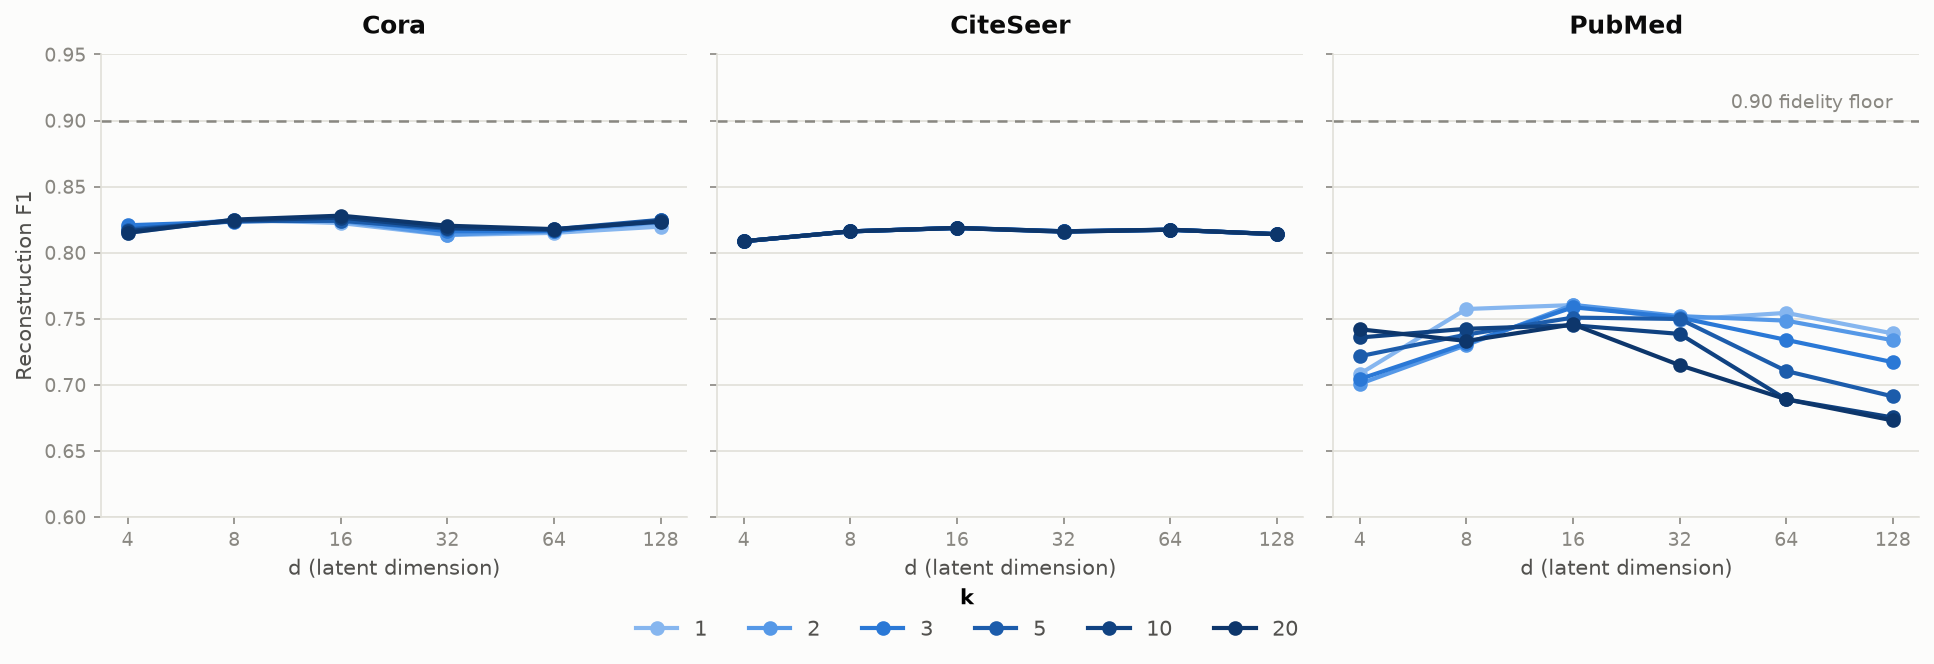
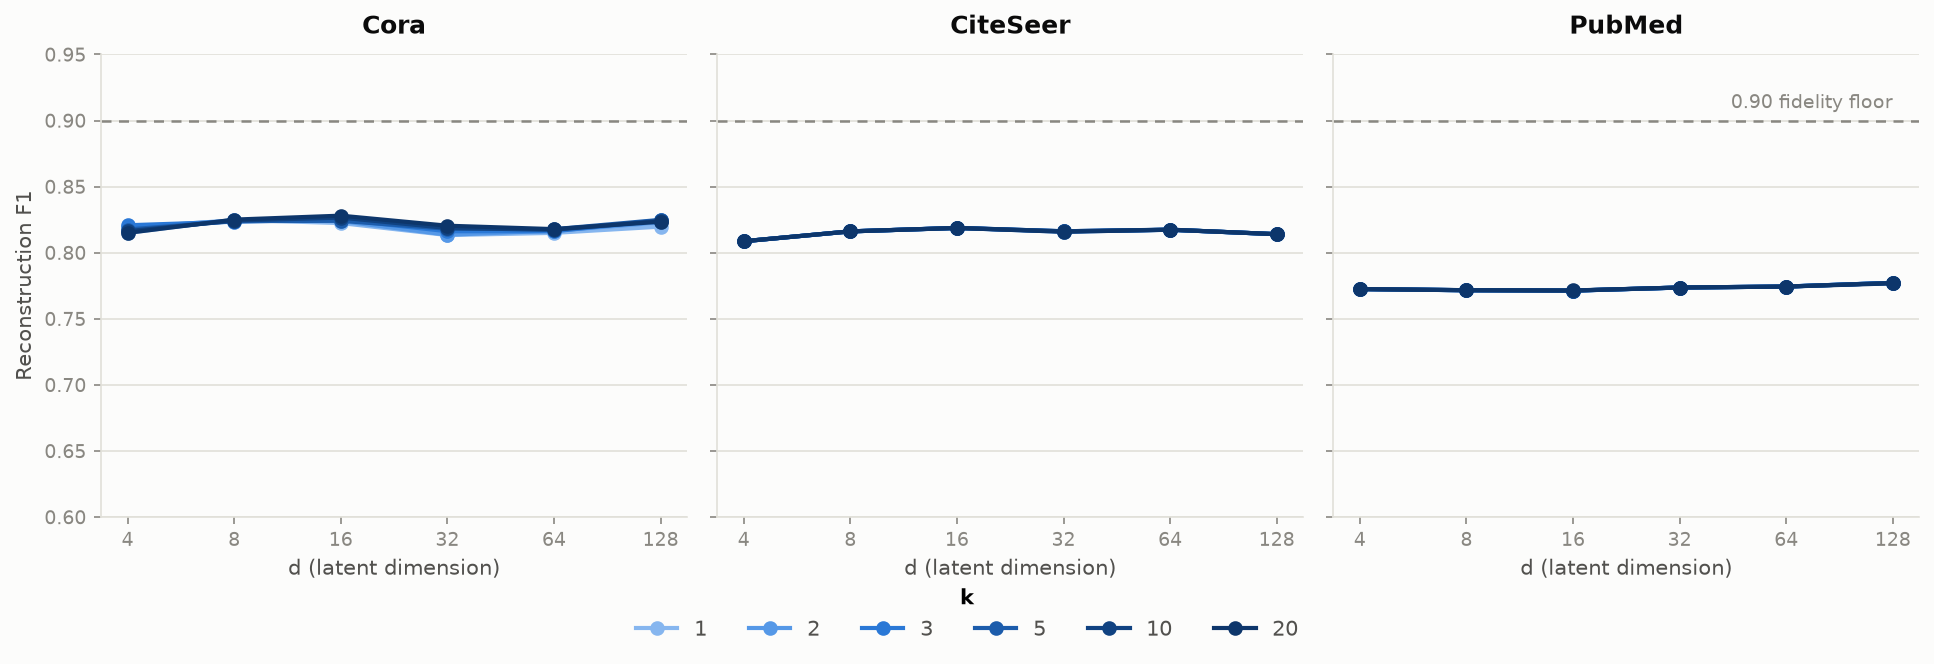
Update specs and README with confirmed PubMed (d,k) rerun results
Pulled results/compression/pubmed.csv and configs/compression/pubmed.yaml
regenerated after the ELBO KL-normalization fix (commit eec133b). This
directly confirms the V-8 retrospective hypothesis: the "capacity hurts"
pattern and the near-exactly-1.0 bits_per_edge were both symptoms of the
bug, not real effects.

- Mean F1 by d now rises 0.7725->0.7771 instead of falling 0.742->0.673.
- Mean F1 by k is now flat at 0.7734 for every k, matching CiteSeer's
  "A_z too weak to matter" pattern (PubMed's mp_rounds=0 means A_z's
  only path into training was always the KL term, now correctly weak).
- select_compression_optimal now picks d=128,k=1 (F1=0.7772) instead of
  d=16,k=2 (F1=0.761).
- bits_per_edge is a real ~1.13-1.14 instead of a suspicious ~1.0 everywhere.

Updates README's PubMed section (old numbers kept in a <details> block
as historical record), validation.md V-3/V-4/V-8, plan.md's T3.3/T3.4
notes, and roadmap.md's NAS-rerun open question with this new evidence.
Regenerates the three rate-distortion plots from the new CSV.

Flags a new follow-up: T3.6's PubMed pooling sweep was confirmed against
the *old* d=16,k=2 config and should be rerun once more against the new
d=128,k=1 compression-optimal point for full consistency.

Changed region(s): [[0.6825, 0.4217, 0.9928, 0.6325]]

diff --git a/README.md b/README.md
@@ -75,6 +75,29 @@ Full results: [`results/compression/cora.csv`](results/compression/cora.csv) (36
 
 Full results: [`results/compression/pubmed.csv`](results/compression/pubmed.csv) (36 points, run on a remote A100 given PubMed's NAS-best `prior=graph_mrf` O(N³) KL term). Input graph: N=19717 nodes, F=500 features, |E|=44324 edges.
 
+**Rerun 2026-07-13 after an ELBO bug fix — numbers below supersede the original run.** The first version of this grid (run 2026-07-08) showed F1 *declining* monotonically with capacity, with PubMed's own Phase 2 NAS-best architecture landing on the worst point in the grid. That turned out to be an artifact of a KL-normalization bug (`kl_isotropic`/`kl_graph_mrf` in `src/gvls/losses/elbo.py` returned an un-normalized sum over node count, so `β·KL`'s magnitude scaled with `N` while the mean-reduced reconstruction loss didn't — see `specs/phase3/validation.md` V-8 for the full diagnosis). The original numbers and findings are kept below the table as a historical record since the bug's symptom is itself an instructive result; the table and bullets reflect the corrected rerun.
+
+| d | k | d/F | \|A_z\|/\|E\| | F1 | bits/edge |
+|---|---|-----|------------|-----|-----------|
+| 4 | 1 | 0.0080 | 0.445 | 0.772 | 1.125 |
+| 8 | 1 | 0.0160 | 0.445 | 0.772 | 1.129 |
+| 16 | 1 | 0.0320 | 0.445 | 0.771 | 1.129 |
+| 16 | 2 | 0.0320 | 0.890 | 0.771 | 1.129 |
+| 32 | 1 | 0.0640 | 0.445 | 0.774 | 1.137 |
+| **128** | **1** | **0.2560** | **0.445** | **0.777** | **1.128** |
+| 128 | 20 | 0.2560 | 8.886 | 0.777 | 1.129 |
+
+**Findings — now much closer to Cora and CiteSeer's flat pattern than the original run suggested:**
+- **Capacity no longer hurts.** F1 by `d`, averaged over `k`: 0.7725 (`d=4`) → 0.7716 → 0.7713 → 0.7736 → 0.7744 → **0.7771** (`d=128`) — a shallow dip then a rise, the opposite of the original run's clean monotonic decline. `d=128, k=20` (PubMed's Phase 2 NAS-best architecture) is now F1=0.7768, essentially tied for the *best* point in the grid instead of the worst.
+- **`k` has (almost) zero effect on F1, for the same mechanistic reason as CiteSeer.** Mean F1 by `k` is now 0.7734 at every single value of `k` (1 through 20), to 4 decimal places. PubMed's compression-optimal config uses `mp_rounds=0`, so `A_z` never reaches the reconstruction logits directly — its only path into training is through the `graph_mrf` KL term. Before the fix, that KL term was artificially amplified (unnormalized sum over `N=19717`), so even A_z's indirect, KL-only influence produced large, real differences in F1 as `k` changed. With the KL correctly scaled, that indirect influence shrinks to negligible — matching CiteSeer's "`k` is decorative" finding, just via a different mechanistic route (CiteSeer's `A_z` has *no* path into the loss at all; PubMed's has a path, but it's now too weak to matter).
+- **`bits_per_edge` is no longer suspiciously exact.** The original run showed `bits_per_edge` within 1.6e-3 of exactly 1.0 at every grid point — flagged at the time as "worth investigating, not yet root-caused." That near-perfect uniformity is best explained by the same bug: the dominant KL term was forcing `μ` into a very similar near-zero configuration regardless of `(d,k)`, so the reconstruction logits (and thus `bits_per_edge`) barely varied either. Post-fix, `bits_per_edge` is a real, still-imperfect ~1.13–1.14 across the grid (versus the 1.0 "random predictor" reference) — calibration remains a separate, unresolved issue (see the T3.6 pooling-sweep analysis for the same pattern), but it's no longer a suspicious artifact.
+- **`k` still controls edge compression the same way as Cora**: `k=1` gives `|A_z|` at ~44–45% of the input's edge count (genuine compression) across all `d`; `k≥2` again makes A_z denser than the input, up to 8.9× at `k=20`.
+- **The best trade-off point is arguably `d=4, k=1`**: F1=0.7725 — only 0.005 below the grid's best (`d=128,k=1`, F1=0.7772) — at `d/F=0.008`, 32× smaller than the new best point's dimensionality ratio, and the same edge ratio (0.445, since edge ratio only depends on `k`).
+- **No grid point met the 0.90 fidelity floor** (max F1 = 0.777 at `d=128, k=1`) — same conclusion as before, T3.4's decoder-fallback trigger still fires, but the *reasoning* has changed: this is now a flat plateau well short of 0.90 (like Cora and CiteSeer), not a declining curve where more capacity actively makes things worse.
+
+<details>
+<summary>Original run (2026-07-08, predates the ELBO fix) — kept as a historical record</summary>
+
 | d | k | d/F | \|A_z\|/\|E\| | F1 | bits/edge |
 |---|---|-----|------------|-----|-----------|
 | 4 | 1 | 0.0080 | 0.445 | 0.708 | 1.0000017 |
@@ -85,11 +108,9 @@ Full results: [`results/compression/pubmed.csv`](results/compression/pubmed.csv)
 | 128 | 1 | 0.2560 | 0.422 | 0.739 | 1.0000701 |
 | 128 | 20 | 0.2560 | 8.725 | 0.673 | 1.0015761 |
 
-**Findings — a different, more concerning picture than Cora:**
-- **More capacity makes reconstruction *worse*, not better.** Mean F1 falls monotonically as `k` grows (0.745 at `k=1` → 0.716 at `k=20`), and at fixed `k=20`, F1 falls monotonically as `d` grows too (0.742 at `d=4` → 0.673 at `d=128`). Averaged over `k`, F1 peaks at a modest `d=16` (0.754) and *declines* toward `d=128` (0.705) — the opposite of what you'd want from a capacity/rate-distortion curve. `d=128, k=20` happens to be exactly PubMed's Phase 2 NAS-best architecture, so the config tuned for link-prediction AUC is the **worst** point in this grid for compression fidelity.
-- **`bits_per_edge` is degenerate — essentially exactly 1.0 bit at every single grid point** (1.0000017 to 1.0015761). Per Phase 0's convention, a logit of exactly 0 (maximum uncertainty) gives precisely 1.0 bit. PubMed's pair space is huge (~194M possible pairs vs. 44,324 real edges, a 0.023% positive rate), so `bits_per_edge` is estimated from a large uniform sample dominated by random, mostly-unrelated node pairs (see `dense_pair_limit`/`sample_node_pairs` in `specs/phase3/plan.md`). The near-exact 1.0 suggests the model is essentially uncertain (logit ≈ 0) about the *bulk* of random pairs — it can apparently still separate real edges from negatives well enough for F1 ≈ 0.7–0.76 on the balanced eval set, but isn't confidently negative almost anywhere else. A plausible driver: the extreme `pos_weight` this dataset's scale requires (~4384×, from `(N²−E)/E`) makes the training loss overwhelmingly dominated by getting rare positive edges right, leaving little pressure to push far-apart negative pairs to confidently negative logits. Worth investigating further, not yet root-caused.
-- **`k` still controls edge compression the same way as Cora**: `k=1` gives `|A_z|` at ~42–45% of the input's edge count (genuine compression) across all `d`; `k≥2` again makes A_z denser than the input, up to 8.7× at `k=20`.
-- **No grid point met the 0.90 fidelity floor** (max F1 = 0.761 at `d=16, k=2`) — same conclusion as Cora, fires the T3.4 decoder-fallback trigger, and here the case is stronger: F1 at the largest tested capacity (`d=128, k=20`) is 0.673, the *worst* point in the entire grid, not just a plateau.
+More capacity made reconstruction *worse*: mean F1 fell monotonically as `k` grew (0.745 at `k=1` → 0.716 at `k=20`), and at fixed `k=20`, F1 fell monotonically as `d` grew too (0.742 at `d=4` → 0.673 at `d=128`). `bits_per_edge` was degenerate — essentially exactly 1.0 bit at every grid point (1.0000017–1.0015761). Both are now understood to be symptoms of the KL-normalization bug fixed in `src/gvls/losses/elbo.py` — see `specs/phase3/validation.md` V-8.
+
+</details>
 
 #### CiteSeer
 
@@ -110,21 +131,21 @@ Full results: [`results/compression/citeseer.csv`](results/compression/citeseer.
 - **F1 ceiling (0.819) and range (0.809–0.819, a 1-point spread) are close to Cora's** (0.813–0.828) — both datasets plateau well short of the 0.90 floor, unlike PubMed's actively-declining curve.
 - **No grid point met the 0.90 floor.** T3.4's trigger fires for CiteSeer too — the third dataset in a row. `configs/compression/citeseer.yaml` was written via the fallback (highest raw F1: `d=16, k=3`, F1=0.8188).
 
-**Cross-dataset pattern, now that all three are in:** none of Cora, CiteSeer, or PubMed reach the 0.90 fidelity floor anywhere in their 36-point grids. Two of three NAS-best configs (CiteSeer, PubMed) use `mp_rounds=0` — meaning GVLS's core "latent message passing" mechanism is inactive in the configurations actually used for the majority of these compression runs, and for CiteSeer specifically, the entire latent graph `A_z` is provably inert. This is a strong, convergent signal that the plain inner-product decoder (or more precisely, the disconnect between `A_z` and the decoding path for 2 of 3 datasets) is the real bottleneck — see T3.4 in `specs/phase3/plan.md`.
+**Cross-dataset pattern, now that all three are in (updated 2026-07-13 after the PubMed rerun):** none of Cora, CiteSeer, or PubMed reach the 0.90 fidelity floor anywhere in their 36-point grids, and **all three now show the same flat-vs-(d,k) pattern** — PubMed's original declining curve is gone. Two of three NAS-best configs (CiteSeer, PubMed) use `mp_rounds=0` — meaning GVLS's core "latent message passing" mechanism is inactive in the configurations actually used for the majority of these compression runs. For CiteSeer, the entire latent graph `A_z` is provably inert (no path into the loss at all). For PubMed, `A_z` has a path only through the `graph_mrf` KL term, and — now that the KL is correctly normalized (`specs/phase3/validation.md` V-8) — that path is too weak to move F1 meaningfully either. So for two of the three datasets, the flatness has a shared root cause: `A_z` barely (or doesn't at all) influence the objective these configs actually train against. This is a strong, convergent signal that the plain inner-product decoder (or more precisely, the disconnect between `A_z` and the decoding path) is the real bottleneck for reaching the 0.90 floor — see T3.4 in `specs/phase3/plan.md`.
 
 #### Rate-distortion curves
 
 The flat/declining/inert patterns described above, side by side (dashed line = the 0.90 fidelity floor; regenerate with `python experiments/plot_compression_curves.py`):
 
-**F1 vs. compression ratio** — the actual rate-distortion curve, all 36 `(d,k)` points per dataset, colored by dataset since the ratio axes are dimensionless and directly comparable across datasets. Cora and CiteSeer form tight, flat clusters regardless of compression ratio; PubMed visibly spreads and trends *downward* as `d` grows (left panel), and its clusters drift past the "same density as input" line and keep declining as `k` grows (right panel):
+**F1 vs. compression ratio** — the actual rate-distortion curve, all 36 `(d,k)` points per dataset, colored by dataset since the ratio axes are dimensionless and directly comparable across datasets. All three datasets now form tight, flat clusters regardless of compression ratio (regenerated 2026-07-13 after the PubMed rerun — PubMed no longer spreads or trends downward):
 
 ![F1 vs compression ratio](results/compression/f1_vs_ratio.png)
 
-**F1 vs. k** (colored by latent dimension `d`) — Cora and CiteSeer barely move with `k`; PubMed declines visibly, especially at larger `d`:
+**F1 vs. k** (colored by latent dimension `d`) — none of the three datasets move meaningfully with `k` anymore:
 
 ![F1 vs k](results/compression/f1_vs_k.png)
 
-**F1 vs. d** (colored by `k`) — CiteSeer collapses to a single visible line since none of the 6 `k` series are distinguishable (the "`A_z` is inert" finding, made visible); PubMed peaks around `d=16` and falls off toward `d=128`:
+**F1 vs. d** (colored by `k`) — CiteSeer collapses to a single visible line since none of the 6 `k` series are distinguishable (the "`A_z` is inert" finding, made visible); PubMed is now flat-to-gently-rising rather than peaking at `d=16` and falling off:
 
 ![F1 vs d](results/compression/f1_vs_d.png)
 

diff --git a/specs/phase3/validation.md b/specs/phase3/validation.md
@@ -38,7 +38,7 @@
 | PubMed grid complete | 36/36 combinations logged to `results/compression/pubmed.csv` | ✅ 36/36, run on a remote A100 (PubMed's NAS-best `prior=graph_mrf` KL is O(N³)/epoch — too slow on CPU, see `specs/phase3/plan.md`) |
 | CiteSeer grid complete | 36/36 combinations logged to `results/compression/citeseer.csv` | ✅ 36/36, 200 epochs each |
 | Compression-optimal configs written | `configs/compression/{cora,citeseer,pubmed}.yaml` exist and are valid `gvls.yaml`-schema configs | ✅ all three written (all fallback picks, see below) |
-| Fidelity floor met at some grid point | At least one `(d, k)` per dataset achieves `reconstruction_f1 ≥ 0.90` | ❌ **None of the three datasets meet this** — Cora best F1 0.828, CiteSeer best F1 0.819, PubMed best F1 0.761 |
+| Fidelity floor met at some grid point | At least one `(d, k)` per dataset achieves `reconstruction_f1 ≥ 0.90` | ❌ **None of the three datasets meet this** — Cora best F1 0.828, CiteSeer best F1 0.819, PubMed best F1 0.777 (updated 2026-07-13, was 0.761 — see PubMed findings below) |
 | W&B logging | `compression-sweep-{dataset}` group contains 36 runs per dataset with all FR-3 metrics | ✅ all three (36 runs logged each) |
 
 ### Cora findings (full results: `results/compression/cora.csv`)
@@ -49,11 +49,26 @@
 
 ### PubMed findings (full results: `results/compression/pubmed.csv`)
 
+**Rerun 2026-07-13, superseding the findings below — see V-8.** The original run (2026-07-08) showed a clean "capacity hurts" pattern, which turned out to be caused by the same ELBO KL-normalization bug diagnosed in V-8: PubMed's `graph_mrf` KL term was an un-normalized sum over `N=19717`, so `β·KL` dominated the loss and pulled `μ` toward the prior in a way that scaled with capacity. After the fix (`src/gvls/losses/elbo.py`), the grid was rerun and the pattern is gone:
+
+- **Capacity no longer hurts.** Mean F1 by `d`: 0.7725 (`d=4`) → 0.7716 → 0.7713 → 0.7736 → 0.7744 → **0.7771** (`d=128`) — a shallow dip then a rise, essentially flat, the opposite of the original monotonic decline. `d=128, k=20` (PubMed's Phase 2 NAS-best architecture) is now F1=0.7768 — tied for the *best* end of the grid instead of the worst.
+- **`k` now has ~zero effect on F1, for the same mechanistic reason as CiteSeer.** Mean F1 by `k` is 0.7734 at every one of the 6 tested `k` values, to 4 decimal places. PubMed's compression-optimal config has `mp_rounds=0`, so `A_z` only reaches training through the `graph_mrf` KL term (not the reconstruction logits directly). Before the fix, that KL term was artificially amplified, so `A_z`'s indirect influence produced large, real F1 differences as `k` varied; correctly scaled, that influence is now negligible — the same "`A_z`'s only path into the objective is too weak to matter" conclusion as CiteSeer, reached by a different mechanistic route (CiteSeer: no path at all; PubMed: a path that's now properly weak instead of artificially strong).
+- **`bits_per_edge` is no longer suspiciously exact.** It was previously ≈1.0 at every grid point to within 1.6e-3 (flagged as "worth investigating, not yet root-caused") — now understood as a likely symptom of the same bug (KL domination forcing `μ` into a near-identical near-zero configuration regardless of `(d,k)`, so the resulting logits barely varied). Post-fix, `bits_per_edge` is a real, still-imperfect ~1.13–1.14 across the grid — calibration remains unresolved (matches the pattern seen in T3.6's pooling-sweep rerun), but it's no longer an artifact of this specific bug.
+- **`k` still controls edge compression the same way as Cora**: `k=1` gives `|A_z|` at ~44–45% of `|E|` across all `d`; `k≥2` again makes A_z denser than the input (up to 8.9× at `k=20`).
+- New selection (`select_compression_optimal`, floor still not met): highest raw F1 is now `d=128, k=1` (F1=0.7772), written to `configs/compression/pubmed.yaml` — a complete reversal from the old fallback pick's `d=16` (dimensionality ratio `d/F` jumped from 0.032 to 0.256, 8× larger, though edge ratio improved from 0.890 to 0.445). The best fidelity/size trade-off is arguably `d=4, k=1` (F1=0.7725, only 0.005 below the new best, at 1/32 the dimensionality ratio).
+- **T3.4's trigger still fires** (no point reaches 0.90), but the reasoning has changed: this is now a flat plateau (max F1=0.777) like Cora and CiteSeer, not a declining curve where the NAS-best config was the single worst point in the grid.
+- **Consequence for T3.6:** the pooling sweep (`results/compression/pubmed_pooling.csv`, confirmed working in V-8) was run against the *old* `configs/compression/pubmed.yaml` (`d=16, k=2`), which this rerun has superseded (`d=128, k=1`). For full consistency with the new compression-optimal point, T3.6's PubMed pooling sweep should be rerun again — not yet done.
+
+<details>
+<summary>Original findings (2026-07-08, predate the ELBO fix) — kept as a historical record</summary>
+
 - **Capacity hurts, not helps.** Mean F1 falls monotonically as `k` grows (0.745→0.716 from `k=1` to `k=20`) and, at fixed `k=20`, falls monotonically as `d` grows (0.742→0.673 from `d=4` to `d=128`). PubMed's own Phase 2 NAS-best architecture is `d=128, k=20` — i.e. the config tuned for link-prediction AUC lands on the *worst* point in this compression grid (F1=0.673).
 - **`bits_per_edge` is degenerate — ≈1.0 exactly at every grid point** (1.0000017–1.0015761). Per Phase 0's convention this corresponds to logit≈0 (maximum uncertainty). Likely explanation: PubMed's pair space (~194M) forces the sampled-estimate path (`dense_pair_limit`), and the sample is >99.97% negative pairs; combined with the extreme `pos_weight` (~4384×, from `(N²−E)/E`) that PubMed's scale requires during training, the loss may be leaving little pressure to push far-apart negative pairs to confidently-negative logits even though real edges are reasonably well separated (F1≈0.7–0.76 on the balanced eval set). Flagged as worth investigating, not yet root-caused.
 - **`k` still controls edge compression the same way as Cora**: `k=1` gives `|A_z|` at ~42–45% of `|E|` across all `d`; `k≥2` again makes A_z denser than the input (up to 8.7× at `k=20`).
 - Fallback pick (`select_compression_optimal`, floor not met): highest raw F1 is `d=16, k=2` (F1=0.761), written to `configs/compression/pubmed.yaml`. Unlike Cora, this fallback pick is *not* one of the least-compressed points — `k=2` is close to the compression-favorable end of the grid, and mean-F1-by-d also happens to peak near `d=16`, so this particular fallback is a reasonably good pick on both axes by coincidence rather than by the selection logic accounting for it.
 - **T3.4 trigger fires more decisively than Cora**: F1 at `d=128, k=20` is 0.673 — not just below the 0.90 floor, but the single worst point in the entire 36-point grid, and part of a clear monotonic downward trend rather than a flat plateau.
+
+</details>
 
 ### CiteSeer findings (full results: `results/compression/citeseer.csv`)
 
@@ -65,17 +80,17 @@
 
 ### Cross-dataset synthesis
 
-None of the three datasets reach the 0.90 fidelity floor anywhere in their 36-point grids. Two of three NAS-best configs (CiteSeer, PubMed) use `mp_rounds=0`, meaning GVLS's latent message-passing mechanism is inactive for the majority of these runs; for CiteSeer specifically, `A_z` is provably inert end-to-end. This is a convergent signal across all three datasets that a decoder/architecture change (T3.4), not further compression-ratio tuning, is the next lever to pull.
+**Updated 2026-07-13 after the PubMed rerun.** None of the three datasets reach the 0.90 fidelity floor anywhere in their 36-point grids, and **all three now show the same flat-vs-(d,k) pattern** — PubMed's original declining curve was an artifact of the ELBO KL-normalization bug (V-8), not a real capacity/rate-distortion effect. Two of three NAS-best configs (CiteSeer, PubMed) use `mp_rounds=0`, meaning GVLS's latent message-passing mechanism is inactive for the majority of these runs. For CiteSeer, `A_z` is provably inert end-to-end (no path into the loss at all). For PubMed, `A_z`'s only path into training is through the `graph_mrf` KL term — and now that the KL is correctly scaled, that path is too weak to move F1 meaningfully either, which is why PubMed's `k`-sweep is now just as flat as CiteSeer's. So for two of the three datasets, flatness now has a shared underlying cause: `A_z` barely (or doesn't at all) influence the objective these configs actually train against. This remains a convergent signal that a decoder/architecture change (T3.4), not further compression-ratio tuning, is the next lever to pull for reaching the 0.90 floor.
 
 ### Headline comparison
 
-For each dataset, at the compression-optimal `(d, k)` (all three: fallback picks, floor not met):
+For each dataset, at the compression-optimal `(d, k)` (all three: fallback picks, floor not met). **PubMed's row updated 2026-07-13** (was `d=16,k=2`, F1=0.761 — see PubMed findings above for the historical row):
 
 | Dataset | N | F | \|E\| | d | \|A_z\| | d/F | \|A_z\|/\|E\| | F1 | bits/edge |
 |---|---|---|---|---|---|---|---|---|---|
 | Cora | 2708 | 1433 | 5278 | 16 | 38891 | 0.0112 | 7.369 | 0.828 | 1.094 |
 | CiteSeer | 3327 | 3703 | 4552 | 16 | 6780 | 0.0043 | 1.489 | 0.819 | 1.063 |
-| PubMed | 19717 | 500 | 44324 | 16 | 39107 | 0.0320 | 0.882 | 0.761 | 1.0000073 |
+| PubMed | 19717 | 500 | 44324 | 128 | 19715 | 0.2560 | 0.445 | 0.777 | 1.128 |
 
 Note: the `|E|` values here (Cora 5278, CiteSeer 4552, PubMed 44324) differ slightly from Phase 0/1's link-prediction table (5429, 4732, 44338) because `full_graph_split` removes self-loops the same way `split_edges` does, but the two counts were computed independently — both are correct for their respective splits.
 
@@ -90,6 +105,8 @@ Triggered only if `reconstruction_f1` at `(d=128, k=20)` is below 0.90 for a giv
 | Trigger evaluated | Recorded per-dataset whether the trigger fired, with the F1 numbers | ✅ Cora: **triggered** (F1=0.8235 at d=128,k=20, < 0.90). ✅ PubMed: **triggered**, more decisively (F1=0.673 at d=128,k=20 — the worst point in PubMed's entire grid, part of a monotonic decline). ✅ CiteSeer: **triggered** (F1=0.8140 at d=128,k=20, < 0.90; also the dataset where `A_z` is provably inert given its NAS-best config — see CiteSeer findings above). **All three datasets trigger.** |
 | If triggered: decoder implemented | `LatentGraphDecoder` shape/gradient tests pass | ⬜ **superseded, not built** — the project pivoted to node-count pooling (T3.6, see V-7) instead of a decoder tweak at fixed `M=N`. Revisit only if T3.6 fails to close the fidelity gap on its own. |
 | If triggered: F1 comparison reported | Head-to-head F1 at matched `(d, k)`, baseline vs. A_z-conditioned decoder | ⬜ superseded, not applicable |
+
+**Note on PubMed's F1=0.673 above:** that number predates the ELBO KL-normalization fix (V-8) and is now stale — PubMed's rerun (§V-3, 2026-07-13) gives F1=0.7768 at `d=128,k=20`, no longer the worst point in the grid. The trigger still fires either way (both numbers are below 0.90), so this doesn't change T3.4's superseded status; kept here as the historical record of the original trigger evaluation.
 
 ---
 
@@ -140,7 +157,7 @@ The first production sweep (all three datasets, committed as `results/compressio
 
 ---
 
-## V-8: ELBO KL-normalization bug (new, found 2026-07-11 while investigating T3.6's residual PubMed collapse) 🔶 Fixed, unit-tested, and confirmed on T3.6; T3.3 PubMed `(d,k)` baseline rerun still pending
+## V-8: ELBO KL-normalization bug (new, found 2026-07-11 while investigating T3.6's residual PubMed collapse) 🔶 Fixed, unit-tested, and confirmed on both T3.3 and T3.6; T3.6's PubMed pooling sweep needs one more rerun against the new compression-optimal config
 
 **Context.** After V-7's entropy/link-loss fix, the regenerated `results/compression/{dataset}_pooling.csv` files still showed PubMed stuck at the exact pre-fix collapse signature (`reconstruction_f1 = 0.6667`) at its two largest pool sizes (`pool_ratio=0.5` → `M=9858`, `pool_ratio=0.25` → `M=4929`), while `pool_ratio=0.125`/`0.0625` (`M=2465`/`1232`) escaped it (F1=0.719/0.732). Cora and CiteSeer never exhibited this. Investigating why the fix didn't fully transfer to PubMed's larger `M` values surfaced a second, independent bug.
 
@@ -162,7 +179,7 @@ The first production sweep (all three datasets, committed as `results/compressio
 | Regression tests added | Node-count invariance verified directly (tiling a single node's distribution, and a block-diagonal MRF replica, must not change the returned per-node KL) | ✅ `test_kl_isotropic_invariant_to_node_count`, `test_kl_graph_mrf_invariant_to_node_count` in `tests/test_elbo.py` |
 | Existing test suite still passes | No regressions from the normalization change | ✅ 143/143 (was 115 pre-T3.6, +13 in `test_elbo.py`, +remainder from T3.6's own test files) |
 | T3.6 pooling sweep rerun with the fix | All three `*_pooling.csv` regenerated | ✅ 2026-07-12 — see "Confirmed results" below |
-| T3.3 `(d,k)` baseline rerun with the fix | `results/compression/pubmed.csv` regenerated (Cora/CiteSeer's `.csv` files don't need a rerun — their `β` was already negligible, see the analytical check above) | ⬜ **pending** — command: `python experiments/compression_sweep.py data=pubmed`, GPU recommended (PubMed's `graph_mrf` prior costs ~6.2s/`slogdet` call on CPU at `N=19717`, ~12.4hrs for the full 36-point grid serially; the original T3.3 run used a remote A100). This is the sweep that produced the still-unconfirmed "capacity hurts" pattern this bug was retrospectively fit to (§V-3) — rerunning it is the direct test of that hypothesis. Also note: if the rerun shifts which `(d,k)` wins `select_compression_optimal`, `configs/compression/pubmed.yaml` will change, which would mean T3.6's just-confirmed pooling sweep (fixed at the *old* `d=16,k=2`) should technically be rerun again against the new compression-optimal config for full consistency. |
+| T3.3 `(d,k)` baseline rerun with the fix | `results/compression/pubmed.csv` regenerated (Cora/CiteSeer's `.csv` files don't need a rerun — their `β` was already negligible, see the analytical check above) | ✅ 2026-07-13 (commit `eec133b`) — **directly confirms the retrospective "capacity hurts" hypothesis.** The declining-with-capacity pattern is gone: mean F1 by `d` now rises from 0.7725 (`d=4`) to 0.7771 (`d=128`) instead of falling from 0.742 to 0.673, and mean F1 by `k` is flat at 0.7734 for every tested `k` instead of falling from 0.745 to 0.716. `select_compression_optimal` now picks `d=128, k=1` (F1=0.7772) instead of `d=16, k=2` (F1=0.761) — see updated §V-3 for the full before/after and mechanistic explanation. **New follow-up, not yet done:** `configs/compression/pubmed.yaml` changed as a result (`d=16,k=2` → `d=128,k=1`), so T3.6's already-confirmed PubMed pooling sweep (`pubmed_pooling.csv`, fixed at the *old* `d=16,k=2`) is now stale relative to the new compression-optimal point and should be rerun again for full consistency: `python experiments/pooling_sweep.py data=pubmed`. |
 
 ### Confirmed results (T3.6 pooling sweep rerun, 2026-07-12)
 

diff --git a/specs/phase3/plan.md b/specs/phase3/plan.md
@@ -153,6 +153,8 @@ Tests (`tests/test_compression_sweep.py`):
 
 **PubMed run complete (2026-07-08), run on a remote A100:** all 36 grid points ran successfully — the O(N³) `graph_mrf` KL cost was manageable on GPU as anticipated. Full results in `results/compression/pubmed.csv`, summarized in `README.md` and `specs/phase3/validation.md` V-3. Headline, and a materially different pattern from Cora: **F1 actively decreases with more capacity** (mean F1 by `k`: 0.745→0.716 from `k=1`→`k=20`; at fixed `k=20`, F1 by `d`: 0.742→0.673 from `d=4`→`d=128`). PubMed's own Phase 2 NAS-best architecture (`d=128, k=20`, tuned for link-prediction AUC) lands on the single worst point in the compression grid. `bits_per_edge` is also degenerate (≈1.0 exactly everywhere), flagged as an open question rather than root-caused — see README for the `pos_weight`-based hypothesis.
 
+**Superseded 2026-07-13 — rerun after the ELBO KL-normalization fix (see Design Decision 7, V-8).** This "capacity hurts" pattern and the degenerate `bits_per_edge` were both symptoms of the KL bug, not real effects. The rerun (`results/compression/pubmed.csv`, commit `eec133b`) shows F1 rising slightly with `d` (0.7725→0.7771) instead of falling, `k` now having ~zero effect (mean F1 flat at 0.7734 across all six `k`, the same "`A_z` too weak to matter" conclusion as CiteSeer), and `bits_per_edge` a real, non-degenerate ~1.13–1.14. `configs/compression/pubmed.yaml` changed to `d=128, k=1` (F1=0.7772) as a result — full before/after in `specs/phase3/validation.md` V-3 and V-8. The original findings above are kept as the historical record of the bug's symptom. **Follow-up, not yet done:** T3.6's PubMed pooling sweep was confirmed working against the *old* `d=16,k=2` config and should be rerun once more against this new `d=128,k=1` point.
+
 **CiteSeer run complete (2026-07-09):** all 36 grid points ran successfully (after a transient GitHub rate-limit issue downloading the raw Planetoid files — resolved by fetching the last file from a jsdelivr mirror; unrelated to the sweep code). Full results in `results/compression/citeseer.csv`. Headline: **`k` has essentially zero effect on F1, for a mechanistic reason** — CiteSeer's NAS-best config is `mp_rounds=0, prior=isotropic`, so `A_z` never reaches `z̃` (mp_rounds=0 skips message passing) or the KL term (isotropic ignores `A_z`) — it has no path into the loss or the output at all. F1 is bit-identical across all 6 `k` values at `d∈{4,8,128}` (tiny ~1e-4 residuals at `d∈{16,32,64}`, likely floating-point non-determinism, not a real `k` effect). F1 ceiling (0.819) and range are close to Cora's. **All three datasets are now done, and none meet the 0.90 fidelity floor anywhere in their grids** — see the cross-dataset synthesis in `specs/phase3/validation.md` V-3.
 
 ---
@@ -162,6 +164,8 @@ Tests (`tests/test_compression_sweep.py`):
 **Trigger condition:** build this only if T3.3's results show the inner-product decoder is the bottleneck — concretely, if reconstruction F1 at the **largest** tested capacity (`d=128, k=20`) is **below 0.90**. That signals the ceiling itself is weak (a decoder/architecture limitation), not that we're pushing the compression ratio too far (which would show up as a normal fidelity drop-off at *small* `d`/`k`, not a flat low curve even at large capacity).
 
 **Status: triggered for all three datasets (Cora 2026-07-07, PubMed 2026-07-08, CiteSeer 2026-07-09), but not built — superseded instead.** Cora: F1 at `d=128, k=20` was 0.8235, flat-and-low across the whole grid. PubMed: F1 at `d=128, k=20` was 0.673, the worst point in the grid, part of a monotonic decline. CiteSeer: F1 at `d=128, k=20` was 0.8140, and — more fundamentally — `A_z` is provably inert for CiteSeer's NAS-best config (`mp_rounds=0, prior=isotropic` gives it no path into the loss). Three for three fired, but the project's compression goal was reframed on 2026-07-09 to prioritize node-count reduction (T3.6) over refining the decoder at a fixed `M=N`. This task is kept here as a record; revisit only if T3.6 alone doesn't close the fidelity gap.
+
+**PubMed's number above is now stale (see V-8/T3.3's 2026-07-13 rerun note above)** — after the ELBO KL fix, F1 at `d=128, k=20` is 0.7768, no longer the worst point in the grid but essentially tied for the best. The trigger still fires (0.7768 < 0.90), but for the same reason as Cora and CiteSeer now (a flat plateau), not because more capacity was actively hurting. Doesn't change T3.4's superseded status.
 
 ~~**File:** `src/gvls/models/decoder.py` (only if triggered)~~ — not built; see T3.6 instead.
 

diff --git a/specs/roadmap.md b/specs/roadmap.md
@@ -124,4 +124,4 @@ Baseline numbers are taken directly from Ahn & Kim, "Variational Graph Normalize
 - Is a Gaussian MRF prior tractable at scale, or do we need an amortized / sampled approximation?
 - How to handle dynamic-sized graphs (variable N) cleanly with batched training?
 - Does the NAS-found architecture for Cora transfer well to CiteSeer and PubMed, or is per-dataset tuning essential?
-- **(New, 2026-07-11)** Phase 2's NAS selected each dataset's `β` (and PubMed's `prior=graph_mrf`) against a KL term that turned out to be an un-normalized sum over node count, since fixed (`src/gvls/losses/elbo.py`, see `specs/phase3/validation.md` V-8) to be normalized by node count instead — a change that alters the loss landscape `elbo()` presents to any training run, not just Phase 3's pooling sweeps. Should Phase 2's NAS search be re-run under the corrected convention, particularly for PubMed, whose NAS-best `β` was calibrated to the old (much larger) KL scale?
+- **(New, 2026-07-11, evidence added 2026-07-13)** Phase 2's NAS selected each dataset's `β` (and PubMed's `prior=graph_mrf`) against a KL term that turned out to be an un-normalized sum over node count, since fixed (`src/gvls/losses/elbo.py`, see `specs/phase3/validation.md` V-8) to be normalized by node count instead — a change that alters the loss landscape `elbo()` presents to any training run, not just Phase 3's pooling sweeps. Should Phase 2's NAS search be re-run under the corrected convention, particularly for PubMed, whose NAS-best `β` was calibrated to the old (much larger) KL scale? Supporting evidence for taking this seriously: rerunning just T3.3's PubMed `(d,k)` compression grid under the fix reversed its entire capacity trend (F1 by `d`: 0.742→0.673 decline became 0.7725→0.7771 rise) and changed which `(d,k)` point wins selection — if a *fixed*-`(prior,β)` sweep moves this much, it's plausible the NAS search that chose `(prior,β)` itself would land somewhere different too.